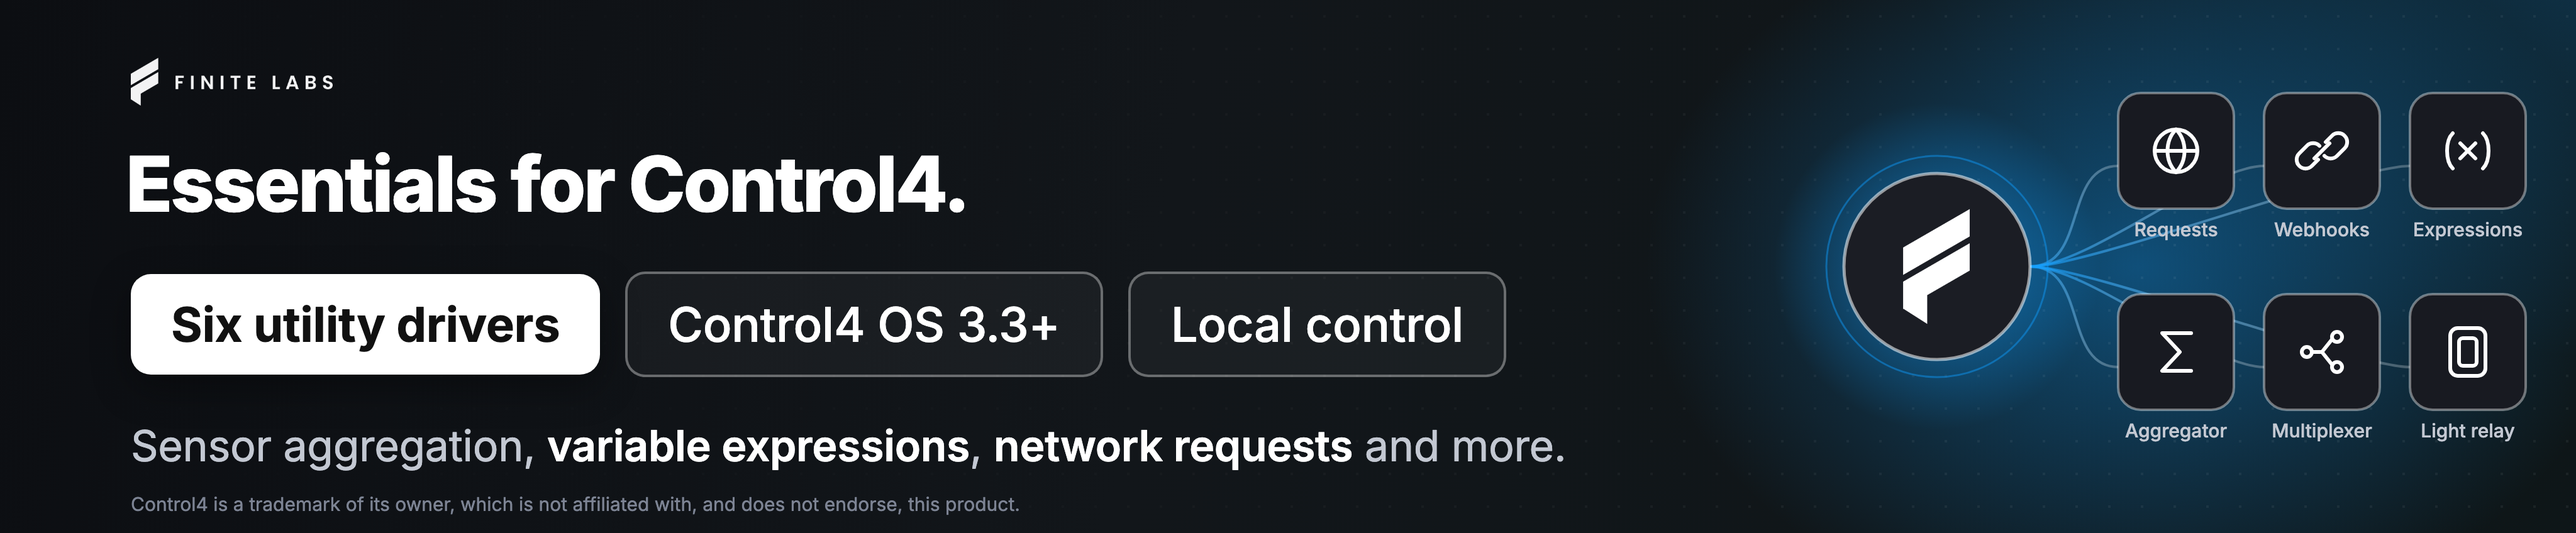
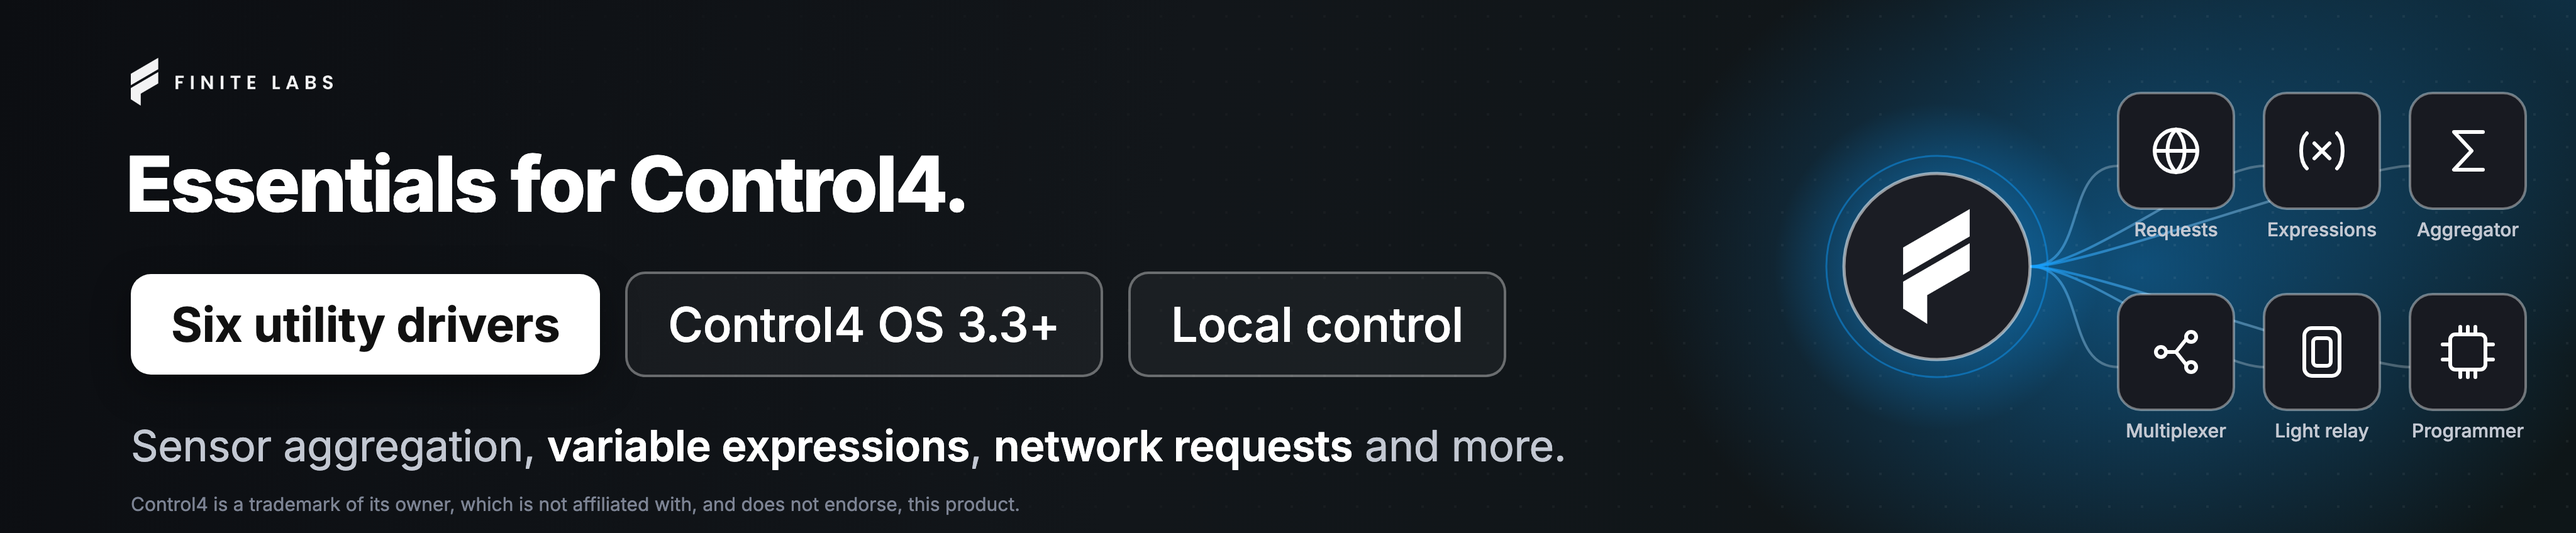
chore: the Essentials tiles show all six drivers, with Device Programmer in place of a second Network Requests tile

diff --git a/resources/drivercentral/banners/launch-post-2400x1200.html b/resources/drivercentral/banners/launch-post-2400x1200.html
@@ -25,7 +25,7 @@
 </style></head>
 <body>
 <div class="dots"></div>
-<svg class="scene" data-style="tiles" data-logo="../assets/brand-mark.png" data-hub="circle" data-items="globe:Requests|link:Webhooks|vars:Expressions|sigma:Aggregator|branch:Multiplexer|switch:Light relay" xmlns="http://www.w3.org/2000/svg"></svg>
+<svg class="scene" data-style="tiles" data-logo="../assets/brand-mark.png" data-hub="circle" data-items="globe:Requests|vars:Expressions|sigma:Aggregator|branch:Multiplexer|switch:Light relay|chip:Programmer" xmlns="http://www.w3.org/2000/svg"></svg>
 <div class="col">
   <img class="fl" src="../assets/finite-labs-logo.png" alt="">
   <h1>Essentials<br>for Control4.</h1>

diff --git a/resources/drivercentral/banners/spotlight-4096x848.html b/resources/drivercentral/banners/spotlight-4096x848.html
@@ -24,7 +24,7 @@
 </style></head>
 <body>
 <div class="dots"></div>
-<svg class="scene" data-style="tiles" data-logo="../assets/brand-mark.png" data-hub="circle" data-items="globe:Requests|link:Webhooks|vars:Expressions|sigma:Aggregator|branch:Multiplexer|switch:Light relay" xmlns="http://www.w3.org/2000/svg"></svg>
+<svg class="scene" data-style="tiles" data-logo="../assets/brand-mark.png" data-hub="circle" data-items="globe:Requests|vars:Expressions|sigma:Aggregator|branch:Multiplexer|switch:Light relay|chip:Programmer" xmlns="http://www.w3.org/2000/svg"></svg>
 <img class="fl" src="../assets/finite-labs-logo.png" alt="">
 <h1>Essentials for Control4.</h1>
 <div class="row">
